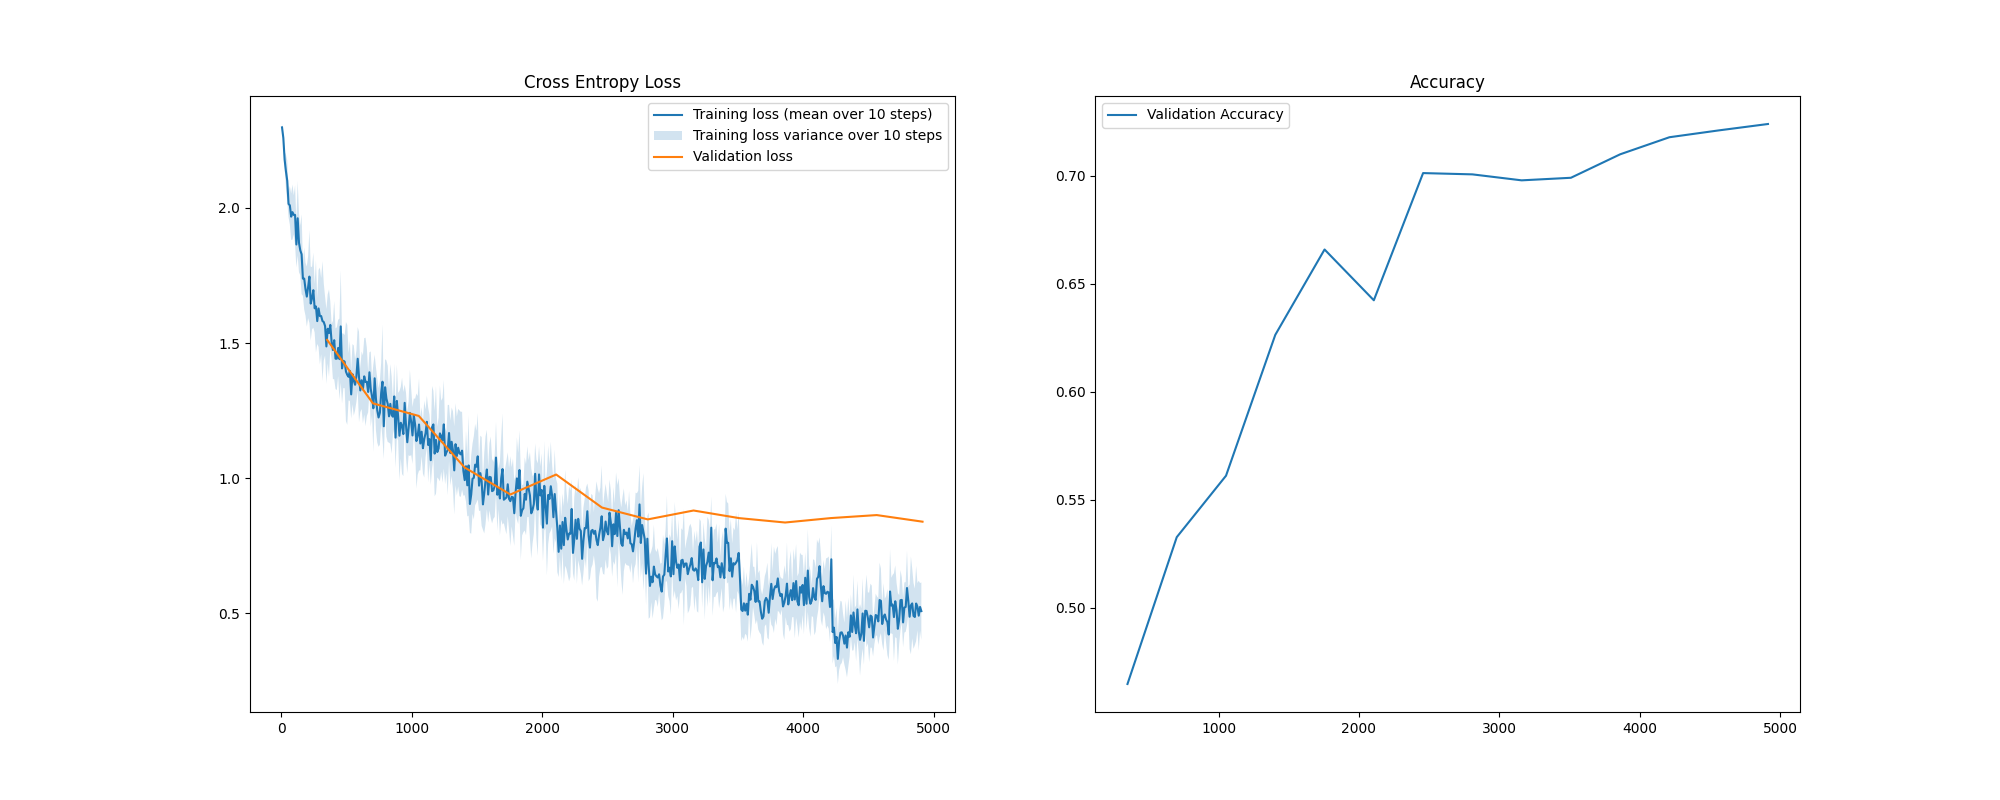
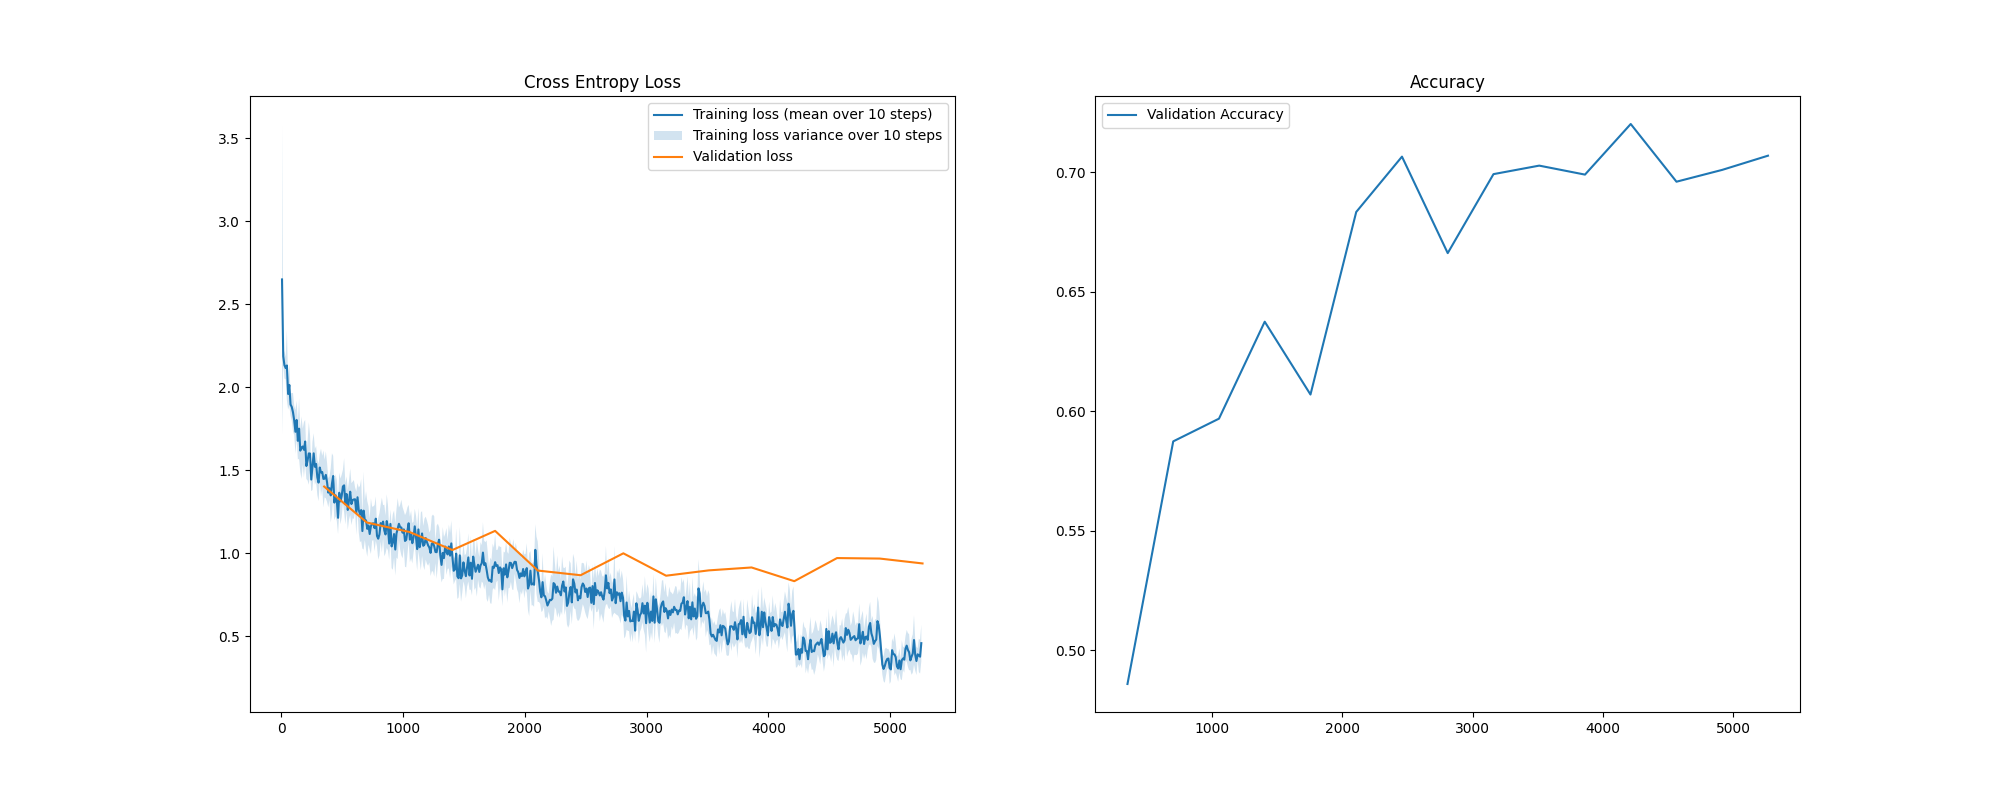
finished task 2, and documented it

diff --git a/assignment3/task2_a_b.py b/assignment3/task2_a_b.py
@@ -1,0 +1,147 @@
+import pathlib
+import matplotlib.pyplot as plt
+import utils
+from torch import nn
+from dataloaders import load_cifar10
+from trainer import Trainer
+
+
+class ExampleModel(nn.Module):
+    def __init__(self, image_channels, num_classes):
+        """
+        Is called when model is initialized.
+        Args:
+            image_channels. Number of color channels in image (3)
+            num_classes: Number of classes we want to predict (10)
+        """
+        super().__init__()
+        # Implement this function (Task  2a) 
+        # to replicate the results of 2a, you should remove the data augmentations 
+        # from the dataloader and change the trainer optimizer back to default
+        num_filters = 32  # Set number of filters in first conv layer
+        self.num_classes = num_classes
+        # Define the convolutional layers
+        self.feature_extractor = nn.Sequential(
+            nn.Conv2d(
+                in_channels=image_channels,
+                out_channels=num_filters,
+                kernel_size=5,
+                stride=1,
+                padding=2,
+            ),
+            nn.ReLU(),
+            nn.MaxPool2d(kernel_size=2, stride=2),
+
+            # layer 2
+            nn.Conv2d(
+                in_channels=num_filters,
+                out_channels=64,
+                kernel_size=5,
+                stride=1,
+                padding=2,
+            ),
+            nn.ReLU(),
+            nn.MaxPool2d(kernel_size=2, stride=2),
+
+            # layer 3
+            nn.Conv2d(
+                in_channels=64,
+                out_channels=128,
+                kernel_size=5,
+                stride=1,
+                padding=2,
+            ),
+            nn.ReLU(),
+            nn.MaxPool2d(kernel_size=2, stride=2),
+            nn.Flatten()
+        )
+        # init weights of feature extractor
+        # nn.init.xavier_normal_(self.feature_extractor[0].weight)
+        
+        for i in range(len(self.feature_extractor)):
+            if isinstance(self.feature_extractor[i], nn.Conv2d):
+                nn.init.kaiming_normal_(self.feature_extractor[i].weight)
+
+        # The output of feature_extractor will be [batch_size, num_filters, 16, 16]
+        self.num_output_features = 4 * 4 * 128
+        # Initialize our last fully connected layer
+        # Inputs all extracted features from the convolutional layers
+        # Outputs num_classes predictions, 1 for each class.
+        # There is no need for softmax activation function, as this is
+        # included with nn.CrossEntropyLoss
+        self.classifier = nn.Sequential(
+            nn.Linear(self.num_output_features, 64),
+            nn.Linear(64, num_classes)
+        )
+
+        # init weights of classifier
+        
+        for i in range(len(self.classifier)):
+            if isinstance(self.classifier[i], nn.Conv2d):
+                nn.init.kaiming_normal_(self.classifier[i].weight)
+
+    def forward(self, x):
+        """
+        Performs a forward pass through the model
+        Args:
+            x: Input image, shape: [batch_size, 3, 32, 32]
+        """
+        # TODO: Implement this function (Task  2a)
+        batch_size = x.shape[0]
+
+        # compute the forward pass
+        x = self.feature_extractor(x)
+        x = x.view(-1, self.num_output_features)
+        x = self.classifier(x)
+        out = x
+        expected_shape = (batch_size, self.num_classes)
+        assert out.shape == (
+            batch_size,
+            self.num_classes,
+        ), f"Expected output of forward pass to be: {expected_shape}, but got: {out.shape}"
+        return out
+
+
+def create_plots(trainer: Trainer, name: str):
+    plot_path = pathlib.Path("plots")
+    plot_path.mkdir(exist_ok=True)
+    # Save plots and show them
+    plt.figure(figsize=(20, 8))
+    plt.subplot(1, 2, 1)
+    plt.title("Cross Entropy Loss")
+    utils.plot_loss(
+        trainer.train_history["loss"], label="Training loss", npoints_to_average=10
+    )
+    utils.plot_loss(trainer.validation_history["loss"], label="Validation loss")
+    plt.legend()
+    plt.subplot(1, 2, 2)
+    plt.title("Accuracy")
+    utils.plot_loss(trainer.validation_history["accuracy"], label="Validation Accuracy")
+    plt.legend()
+    plt.savefig(plot_path.joinpath(f"{name}_plot.png"))
+    plt.show()
+
+
+def main():
+    # Set the random generator seed (parameters, shuffling etc).
+    # You can try to change this and check if you still get the same result!
+    utils.set_seed(0)
+    print(f"Using device: {utils.get_device()}")
+    epochs = 10
+    batch_size = 64
+    learning_rate = 5e-2
+    early_stop_count = 4
+    dataloaders = load_cifar10(batch_size)
+    model = ExampleModel(image_channels=3, num_classes=10)
+    trainer = Trainer(
+        batch_size, learning_rate, early_stop_count, epochs, model, dataloaders
+    )
+    trainer.train()
+    create_plots(trainer, "task2")
+
+    # test accuracies
+    trainer.evaluate_on_test()
+
+
+if __name__ == "__main__":
+    main()
